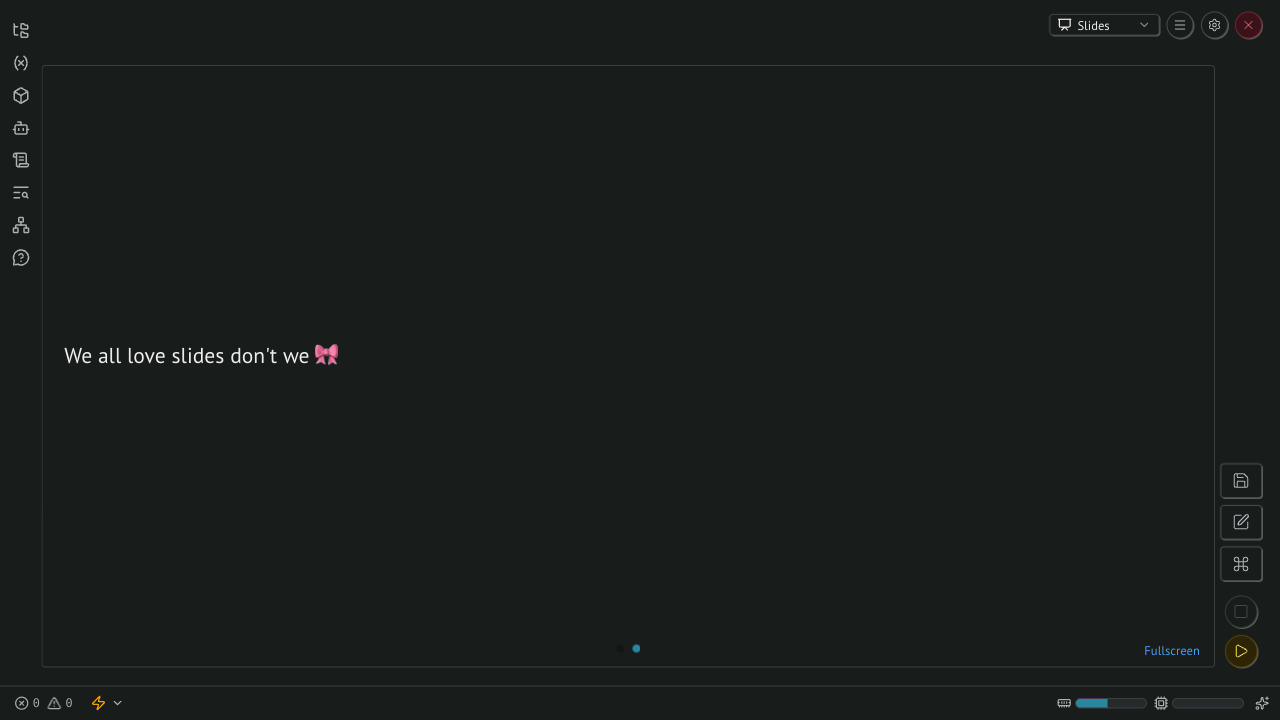
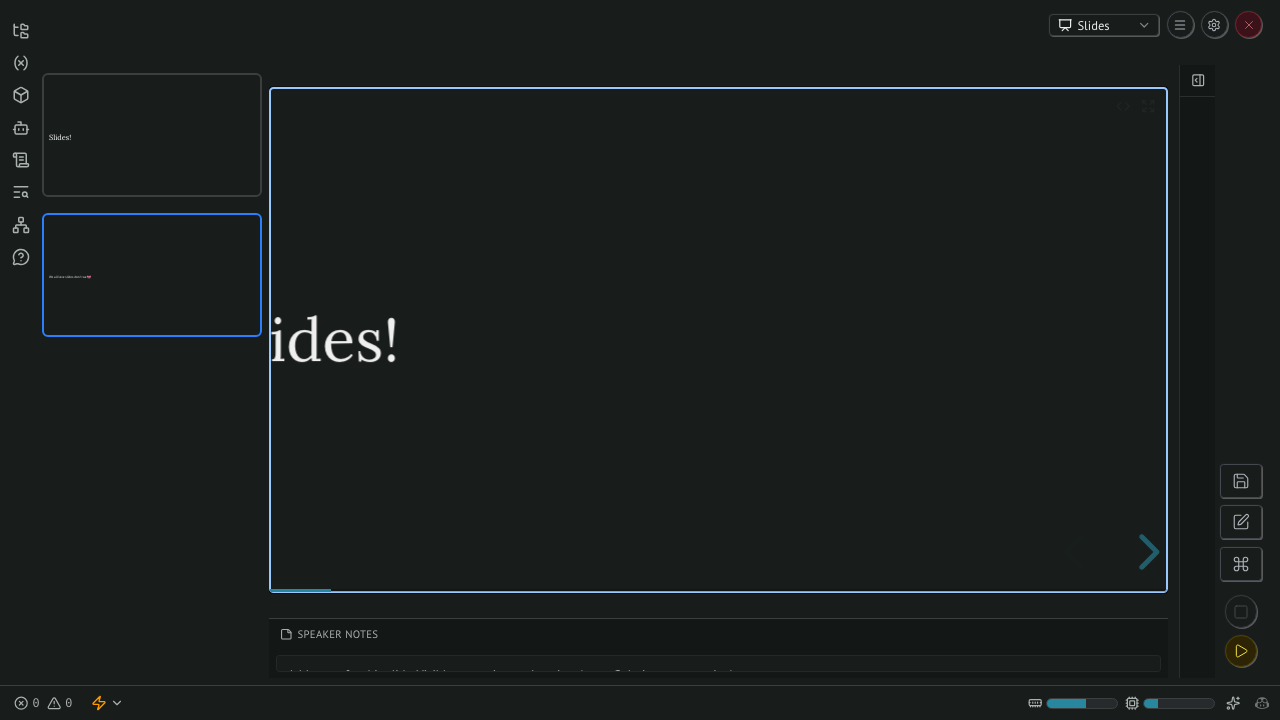
fix test, and fix sizing

diff --git a/frontend/e2e-tests/slides.spec.ts b/frontend/e2e-tests/slides.spec.ts
@@ -30,27 +30,31 @@ test("slides", async ({ page }) => {
 
   await takeScreenshot(page, __filename);
 
-  // Reveal.js marks the active slide <section> with .present. We match by
-  // `data-index-h` (which reveal sets on each slide section)
-  const slides = slidesContainer.locator("section[data-index-h]");
-  await expect(slides.first()).toHaveClass(/present/);
+  // Reveal.js marks the active slide <section> with `.present`. It only sets
+  // `data-index-h` in overview / scroll modes, so we identify each slide
+  // positionally via `.slides > section` and assert which one is active.
+  const slides = slidesContainer.locator(".slides > section");
+  await expect(slides).toHaveCount(2);
+  await expect(slides.nth(0)).toHaveClass(/present/);
 
-  // Focus the deck so keyboard navigation works (embedded mode)
+  // Click the deck so DOM focus lands on it (the wrapper is `tabindex="-1"`).
+  // Without this, focus stays on whatever the command palette dialog
+  // restored it to (often the speaker-notes textarea), which makes reveal
+  // ignore the arrow keys.
   await slidesContainer.click();
+  await expect
+    .poll(() =>
+      slidesContainer.evaluate((el) => document.activeElement === el),
+    )
+    .toBe(true);
 
-  // Navigate to next slide using right arrow key
   await page.keyboard.press("ArrowRight");
-
-  // Verify we moved to second slide
   await expect(slides.nth(1)).toHaveClass(/present/);
 
   await takeScreenshot(page, __filename);
 
-  // Navigate back to first slide using left arrow key
   await page.keyboard.press("ArrowLeft");
-
-  // Verify we're back on the first slide
-  await expect(slides.first()).toHaveClass(/present/);
+  await expect(slides.nth(0)).toHaveClass(/present/);
 });
 
 test("slides fullscreen", async ({ page }) => {

diff --git a/frontend/src/components/slides/reveal-component.tsx b/frontend/src/components/slides/reveal-component.tsx
@@ -357,6 +357,16 @@ const RevealSlidesComponent = ({
         toggleShowCode,
       );
     }
+
+    // Reveal listens for `keydown` on `document` and bails when
+    // `document.activeElement` is an input/contenteditable (e.g. the speaker
+    // notes textarea below the deck). Park focus on the deck wrapper so arrow
+    // keys reliably advance slides without the user having to click first.
+    const revealEl = deck.getSlidesElement()?.closest(".reveal");
+    if (revealEl instanceof HTMLElement) {
+      revealEl.tabIndex = -1;
+      revealEl.focus({ preventScroll: true });
+    }
   });
 
   const activeSubslide = useMemo(() => {

diff --git a/frontend/src/components/editor/renderers/slides-layout/slides-layout.tsx b/frontend/src/components/editor/renderers/slides-layout/slides-layout.tsx
@@ -83,7 +83,7 @@ export const SlidesLayoutRenderer: React.FC<Props> = ({
   }
 
   return (
-    <div className="pr-18 pb-2 flex flex-row gap-2 min-h-0">
+    <div className="flex-1 pr-18 pb-2 flex flex-row gap-2 min-h-0">
       <SlidesMinimap
         cells={cellsWithOutput}
         thumbnailWidth={220}